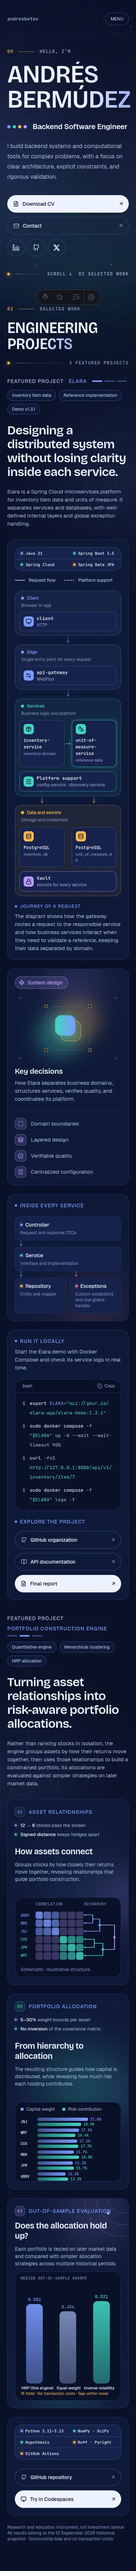
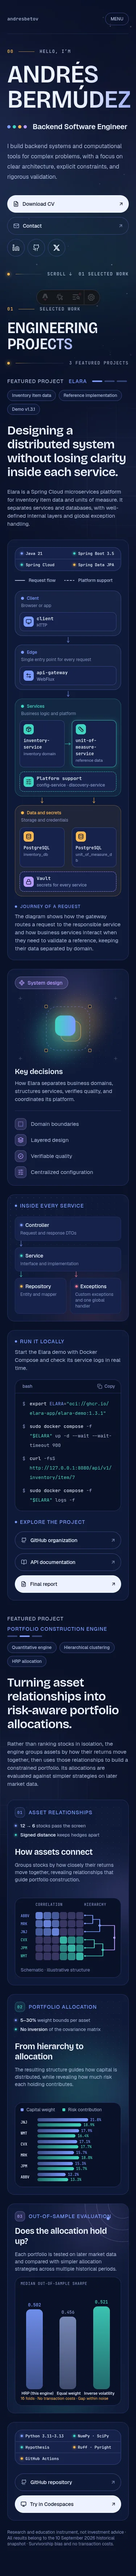
fix(portfolio): address PCE review findings
Correct the stale agent status, consume type-role tokens for chart notes and mobile labels, remove unreachable FeatureRow variants, move PCE summaries/labels into data, and keep the mobile allocation panel above its clipped row. Refresh the evidence captures.

Refs #10

diff --git a/src/data/portfolio-engine.ts b/src/data/portfolio-engine.ts
@@ -18,6 +18,7 @@ export type EvidenceCard = {
   title: string;
   description: string;
   panel: EvidencePanelKind;
+  layout: "split" | "feature";
   facts: readonly EvidenceFact[];
 };
 
@@ -74,6 +75,7 @@ export const portfolioEngine = {
   ],
   subtitle:
     "Rather than ranking stocks in isolation, the engine groups assets by how their returns move together, then uses those relationships to build a constrained portfolio. Its allocations are evaluated against simpler strategies on later market data.",
+  exploreLabel: "Explore the project",
   cards: [
     {
       id: "asset-relationships",
@@ -84,6 +86,7 @@ export const portfolioEngine = {
       description:
         "Groups stocks by how closely their returns move together, revealing relationships that guide portfolio construction.",
       panel: "correlation",
+      layout: "split",
       facts: [
         { emphasis: "12 → 6", text: "stocks pass the screen", tone: "edge" },
         {
@@ -102,6 +105,7 @@ export const portfolioEngine = {
       description:
         "The resulting structure guides how capital is distributed, while revealing how much risk each holding contributes.",
       panel: "allocation",
+      layout: "split",
       facts: [
         {
           emphasis: "5–30%",
@@ -124,6 +128,7 @@ export const portfolioEngine = {
       description:
         "Each portfolio is tested on later market data and compared with simpler allocation strategies across multiple historical periods.",
       panel: "sharpe",
+      layout: "feature",
       facts: [],
     },
   ] satisfies readonly EvidenceCard[],
@@ -179,6 +184,8 @@ export const portfolioEngine = {
       { symbol: "JPM", weight: 15.3, risk: 15.7 },
       { symbol: "ABBV", weight: 12.2, risk: 13.3 },
     ] satisfies readonly AllocationHolding[],
+    summary:
+      "Allocation by asset. JNJ: Capital weight 21.8%, Risk contribution 18.9%. WMT: Capital weight 17.9%, Risk contribution 16.4%. CVX: Capital weight 17.1%, Risk contribution 17.7%. MRK: Capital weight 15.7%, Risk contribution 18.0%. JPM: Capital weight 15.3%, Risk contribution 15.7%. ABBV: Capital weight 12.2%, Risk contribution 13.3%.",
   },
   evaluation: {
     label: "MEDIAN OUT-OF-SAMPLE SHARPE",
@@ -188,6 +195,8 @@ export const portfolioEngine = {
       { name: "Inverse volatility", value: 0.521, tone: "services" },
     ] satisfies readonly EvaluationStrategy[],
     note: "16 folds · No transaction costs · Gap within noise",
+    summary:
+      "MEDIAN OUT-OF-SAMPLE SHARPE: HRP (this engine) 0.502, Equal weight 0.456, Inverse volatility 0.521. 16 folds · No transaction costs · Gap within noise.",
   },
   stack: [
     { label: "Python 3.11–3.13", tier: "edge" },

diff --git a/src/styles/tokens.css b/src/styles/tokens.css
@@ -136,6 +136,8 @@
   --type-body-compact-line-height: 1.25rem;
   --type-body-fact-size: 0.8125rem;
   --type-body-fact-line-height: 1.0625rem;
+  --type-body-note-size: 0.6875rem;
+  --type-body-note-line-height: 0.875rem;
   --type-body-s-size: 0.75rem;
   --type-body-s-line-height: 1rem;
 
@@ -147,6 +149,8 @@
   --type-label-caps-tracking: 0.08em;
   --type-label-s-size: 0.75rem;
   --type-label-s-line-height: 1rem;
+  --type-label-xs-size: 0.6875rem;
+  --type-label-xs-line-height: 0.875rem;
 
   /* Code */
   --type-code-m-size: 0.8125rem;

diff --git a/src/styles/global.css b/src/styles/global.css
@@ -205,6 +205,7 @@ body.menu-open {
 .type-body-m,
 .type-body-compact,
 .type-body-fact,
+.type-body-note,
 .type-body-s {
   font-family: var(--font-body);
   font-weight: var(--weight-regular);
@@ -228,6 +229,11 @@ body.menu-open {
 .type-body-fact {
   font-size: var(--type-body-fact-size);
   line-height: var(--type-body-fact-line-height);
+}
+
+.type-body-note {
+  font-size: var(--type-body-note-size);
+  line-height: var(--type-body-note-line-height);
 }
 
 .type-body-s {

diff --git a/docs/evidence/portfolio-construction-engine/README.md b/docs/evidence/portfolio-construction-engine/README.md
@@ -33,12 +33,14 @@ captures.
   1440, 768, 390, and 375. Every evidence panel reports `scrollWidth === clientWidth` and
   `scrollHeight === clientHeight`, including the correlation matrix, allocation bars, and the
   walk-forward chart.
-- **Frame heights:** the PCE article measures 1440×1244, 768×1668, and 390×2612, against the
-  Figma frames at 1440×1244, 768×1670, and 390×2617.8. The 375px stress width measures 375×2622
+- **Frame heights:** the PCE article measures 1440×1244, 768×1670, and 390×2614, against the
+  Figma frames at 1440×1244, 768×1670, and 390×2617.8. The 375px stress width measures 375×2635
   without overflow.
 - **No clipped content:** the Bento Evidence cards and walk-forward panels fit their cards at
   all four widths. The correlation tree stretches to the matrix row height instead of adding
-  intrinsic height, and the chart labels and note sit inside the panel at 375.
+  intrinsic height, and the chart labels and note sit inside the panel at 375. The allocation
+  panel keeps the 390px frame height on mobile; at 375 the last allocation row sits 2px above
+  the content-box edge with the 11px panel padding still below it.
 - **Console:** no browser console errors after the final reload. Earlier transient Vite
   hot-reload errors from editing are not present in the final capture.
 - **Focus:** both new external links show the shared 2px teal `:focus-visible` outline with a
@@ -46,10 +48,11 @@ captures.
 - **Nav focus:** at 390, opening MENU and choosing Projects closes the menu, sets
   `location.hash` to `#projects`, and focuses `h2#projects-title`. There is still exactly one
   `#projects` anchor; the PCE article has no id of its own.
-- **Earlier sections:** the Elara section was not edited. The before/after 1440 crops are
-  visually identical; the SSIM between the two WebP captures is 0.9905, with the difference
-  attributable to the WebP re-encode.
+- **Earlier sections:** the Elara section markup was not edited. The shared `FeatureRow` gained
+  a compact fact variant used only by the PCE; its default output is unchanged. The before/after
+  1440 crops are visually identical; the SSIM between the two WebP captures is 0.9905, with the
+  difference attributable to the WebP re-encode.
 - **Diagrams:** the correlation matrix, hierarchy, allocation bars, and Sharpe chart are
-  accessible HTML/CSS/SVG. The panels expose hidden summaries generated from the section data;
-  the visible chart labels and values remain selectable text.
+  accessible HTML/CSS/SVG. The panels expose hidden summaries stored in the section data; the
+  visible chart labels and values remain selectable text.
 - **Passing gate:** `npm run verify` passes on the working tree.

diff --git a/GLOSSARY.md b/GLOSSARY.md
@@ -28,6 +28,18 @@ _Avoid_: badge color, palette
 A long-form section for one selected project, combining narrative, evidence, and diagrams.
 _Avoid_: case study, project card
 
+**Evidence card**:
+A numbered card inside a Featured project that pairs a claim with a diagram or chart.
+_Avoid_: bento tile, proof card
+
+**Evidence panel**:
+The fixed-proportion chart or diagram inside an evidence card.
+_Avoid_: chart box, visual panel
+
+**Fact**:
+A short emphasized statement in an evidence card, with a tier-colored dot.
+_Avoid_: bullet, stat
+
 **Shell**:
 The shared layout and visual foundation used by every section: background, grid, navigation, tokens, and typography.
 _Avoid_: layout wrapper, chrome

diff --git a/AGENTS.md b/AGENTS.md
@@ -1,6 +1,6 @@
 # Agent instructions
 
-This is a static Astro portfolio. The shell, Hero, and Elara Featured project are implemented; the remaining Figma sections and footer are next. Production promotion is deferred until the full Figma-derived content is implemented and reviewed.
+This is a static Astro portfolio. The shell, Hero, Elara, and Portfolio Construction Engine Featured projects are implemented; the remaining Figma sections and footer are next. Production promotion is deferred until the full Figma-derived content is implemented and reviewed.
 
 ## Commands
 
